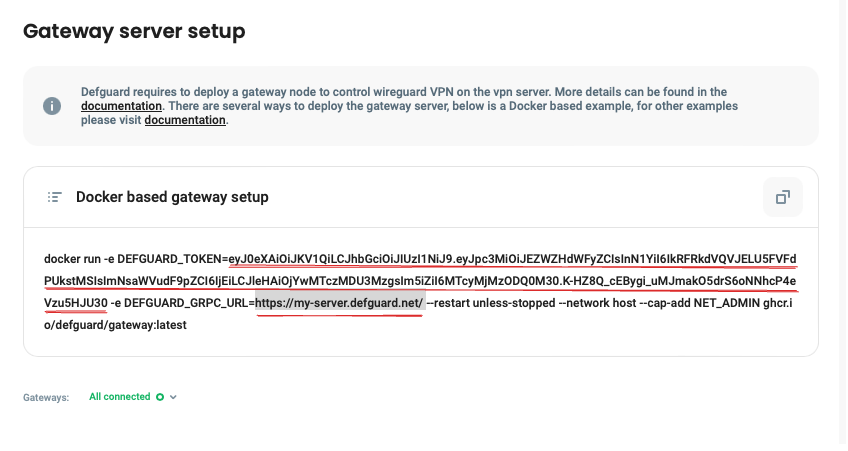
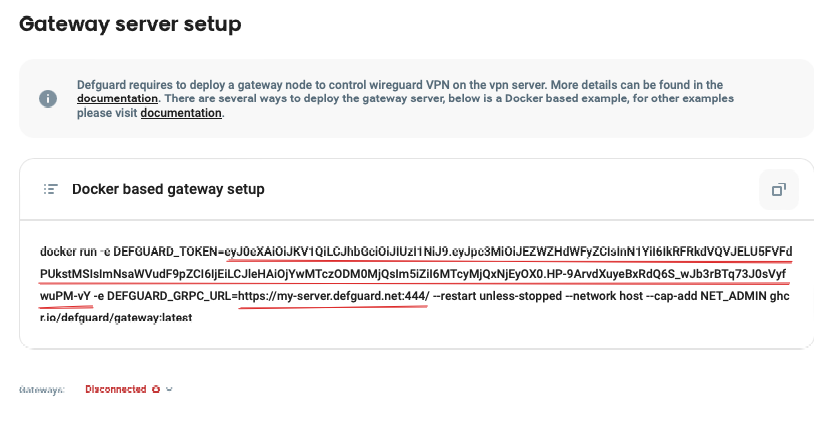
update configurations, grpc ports

diff --git a/tutorials/standalone-package-based-installation.md b/tutorials/standalone-package-based-installation.md
@@ -46,7 +46,7 @@ First of all, install postgresql
 Now you can launch a default user and create a new superuser for your database. We create user, password and database with name `defguard`, beacuse this is by default in `/etc/defguard/core.conf`, you can change whatever you want.
 ```
 # su -c /usr/bin/psql postgres
-postgres=# CREATE USER defgaurd WITH SUPERUSER PASSWORD defguad;
+postgres=# CREATE USER defgaurd WITH SUPERUSER PASSWORD 'defguad';
 postgres=# CREATE DATABASE defguard;
 ```
 
@@ -64,8 +64,7 @@ To expose our services in the server we need to configure a reverse proxy server
 
 To get started, we need to install:
 ```
-# apt install nginx
-# apt install certbot # service that generate for us certificates
+# apt install nginx certbot
 ```
 
 Enable nginx service
@@ -74,12 +73,9 @@ Enable nginx service
 # systemctl start nginx.service
 ```
 
-### Additional dependencies
-
-If there are any missing dependencies during installation, we recommend to fix them using the following command:
-
+Disable all default domains:
 ```
-# apt-get install -f
+# unlink /etc/ngins/sites-enabled/default
 ```
 
 ## Installation 
@@ -190,18 +186,18 @@ DEFGUARD_AUTH_SESSION_LIFETIME=604800
 DEFGUARD_ADMIN_GROUPNAME=admin
 DEFGUARD_DEFAULT_ADMIN_PASSWORD=pass123
 
-DEFGUARD_GRPC_ULR=https://my-server.defguard.net # add this line to your config file
+DEFGUARD_GRPC_URL=https://my-server.defguard.net:444
 
 ### Proxy configuration ###
 # Optional. URL of proxy gRPC server
 # DEFGUARD_PROXY_URL=http://localhost:50051
 
 ### LDAP configuration ###
-DEFGUARD_LDAP_URL=ldap://localhost:389
-DEFGUARD_LDAP_SERVICE_PASSWORD=adminpassword
-DEFGUARD_LDAP_USER_SEARCH_BASE="ou=users,dc=example,dc=org"
-DEFGUARD_LDAP_GROUP_SEARCH_BASE="ou=groups,dc=example,dc=org"
-DEFGUARD_LDAP_DEVICE_SEARCH_BASE="ou=devices,dc=example,dc=org"
+# DEFGUARD_LDAP_URL=ldap://localhost:389
+# DEFGUARD_LDAP_SERVICE_PASSWORD=adminpassword
+# DEFGUARD_LDAP_USER_SEARCH_BASE="ou=users,dc=example,dc=org"
+# DEFGUARD_LDAP_GROUP_SEARCH_BASE="ou=groups,dc=example,dc=org"
+# DEFGUARD_LDAP_DEVICE_SEARCH_BASE="ou=devices,dc=example,dc=org"
 
 ### DB configuration ###
 DEFGUARD_DB_HOST="localhost"
@@ -213,7 +209,9 @@ DEFGUARD_DB_PASSWORD="defguard"
 DATABASE_URL="postgresql://defguard:defguard@localhost/defguard"
 ```
 
-**If you have configured your postgres with different names than in [PostgreSQL guide](#postgresql), you can change it in DB configuration part**.
+**If you have configured your postgres with different names than in [PostgreSQL guide](#postgresql), you can change it in DB configuration part. LDAP configuration is not part of this tutorial, you can also commented those lines.**
+
+**We will back to this configuration to connect defguard core with proxy in the [Run proxy](#run-proxy) section. For now `DEFGUARD_PROXY_URL` is commented.**
 
 After changes, you can simply enable and start your defguard core service:
 ```
@@ -234,10 +232,7 @@ Jul 29 13:57:19 defguard-testing defguard[2776504]: 2024-07-29T11:57:19.747717Z 
 Jul 29 13:57:19 defguard-testing defguard[2776504]: 2024-07-29T11:57:19.780563Z  INFO defguard: Started web services
 ```
 
-Now, we are able to create our first nginx config for defguard core service with <i>my-server.defguard.net</i>. First of all, disable all default domains:
-```
-# unlink /etc/ngins/sites-enabled-default
-```
+Now, we are able to create our first nginx config for defguard core service with <i>my-server.defguard.net</i>.
 
 Create config file `/etc/nginx/site-available/my-server.defguard.conf`, example config file for <i>my-server.defguard.ent</i> should look like this
 ```
@@ -289,7 +284,7 @@ ln -s /etc/nginx/sites-available/my-server.defguard.conf /etc/nginx/sites-enable
 
 Restart nginx.service and we can start generate certificates for ssl purpose
 ```
-# systemctl restart nginx.service
+# systemctl reload nginx.service
 # certbot certonly --non-interactive --agree-tos --standalone --email admin@teonite.com -d my-server.defguard.net
 ```
 
@@ -345,7 +340,12 @@ server {
 }
 ```
 
-Test your domain on another terminal tab:
+Reload changes in `/etc/nginx/sites-available/my-server.defguard.conf`
+```
+# systemctl reload nginx.service
+```
+
+Test your domain on another terminal tab
 ```
 $ curl https://my-server.defguard.net/api/v1/health
 alive
@@ -385,10 +385,10 @@ Template for configure gateway service looks like below:
 
 # Required: secret token generated by defguard
 # NOTE: must replace default with actual value
-token = "<your_gateway_token>"
+token = "eyJ0eXAiOiJKV1QiLCJhbGciOiJIUzI1NiJ9.eyJpc3MiOiJEZWZHdWFyZCIsInN1YiI6IkRFRkdVQVJELU5FVFdPUkstMSIsImNsaWVudF9pZCI6IjEiLCJleHAiOjYwMTczODM0MjQsIm5iZiI6MTcyMjQxNjEyOX0.HP-9ArvdXuyeBxRdQ6S_wJb3rBTq73J0sVyfwuPM-vY"
 # Required: defguard server gRPC endpoint URL
 # NOTE: must replace default with actual value
-grpc_url = "<defguard_grpc_url>"
+grpc_url = "https://my-server.defguard.net:444/"
 # Optional: gateway name which will be displayed in defguard web UI
 name = "Gateway A"
 # Required: use userspace WireGuard implementation (e.g. wireguard-go)
@@ -439,7 +439,7 @@ Now we can run gateway service with configuration above:
 # systemctl enable defguard-gateway.service
 # systemctl start defgaurd-gateway.service
 # journalctl -u defguard-gateway.service
-[2024-07-27T16:37:56Z INFO  defguard_gateway::gateway] Starting defguard gateway version 0.7.0 with configuration: Config { token: "***", name: Some("Gateway on server X"), grpc_url: "http://localhost:50055/", userspace: false, grpc_ca: None, stats_period: 60, ifname: "wg0", pidfile: None, use_syslog: false, syslog_facility: "LOG_USER", syslog_socket: "/var/run/log", config_path: None, pre_up: None, post_up: None, pre_down: None, post_down: None, health_port: Some(55003) }
+[2024-07-27T16:37:56Z INFO  defguard_gateway::gateway] Starting defguard gateway version 0.7.0 with configuration: Config { token: "***", name: Some("Gateway on server X"), grpc_url: "https://my-server.defguard.net:444/", userspace: false, grpc_ca: None, stats_period: 60, ifname: "wg0", pidfile: None, use_syslog: false, syslog_facility: "LOG_USER", syslog_socket: "/var/run/log", config_path: None, pre_up: None, post_up: None, pre_down: None, post_down: None, health_port: None }
 [2024-07-27T16:37:56Z INFO  defguard_gateway::gateway] gRPC server connection setup done.
 [2024-07-27T16:37:56Z INFO  defguard_wireguard_rs::wgapi_linux] Creating interface wg0
 [2024-07-27T16:37:56Z INFO  defguard_wireguard_rs::wgapi_linux] Configuring interface wg0 with config: InterfaceConfiguration { name: "Szczecin", address: "10.22.33.1/24", port: 50051, peers: [], mtu: None, .. }
@@ -447,16 +447,16 @@ Now we can run gateway service with configuration above:
 [2024-07-27T16:37:56Z WARN  netlink_packet_route::link::buffer_tool] Specified IFLA_INET6_STATS NLA attribute holds more(most likely new kernel) data which is unknown to netlink-packet-route crate, expecting 288, got 296
 [2024-07-27T16:37:56Z INFO  defguard_gateway::gateway] Reconfigured WireGuard interface Szczecin (address: 10.0.0.1/24)
 [2024-07-27T16:37:56Z INFO  defguard_gateway::gateway] Stats thread spawned.
-[2024-07-27T16:37:56Z INFO  defguard_gateway::gateway] Connected to defguard gRPC endpoint: http://localhost:50055/
+[2024-07-27T16:37:56Z INFO  defguard_gateway::gateway] Connected to defguard gRPC endpoint: https://my-server.defguard.net:444/
 ```
 
 On the other side, core service should print those informations:
 ```
-2024-07-27T16:37:56.379227Z  INFO defguard::grpc: Adding gateway user with to gateway map for network 3
-2024-07-27T16:37:56.385951Z  INFO defguard::grpc::gateway: Configuration sent to gateway client, network [ID 3] Szczecin.
-2024-07-27T16:37:56.388651Z  INFO defguard::grpc::gateway: New client connected to updates stream: user, network [ID 3] Szczecin
-2024-07-27T16:37:56.388695Z  INFO defguard::grpc: Gateway user connected in network 3
-2024-07-27T16:37:56.388810Z  INFO defguard::grpc::gateway: Starting update stream to gateway: user, network [ID 3] Szczecin
+2024-07-27T16:37:56.379227Z  INFO defguard::grpc: Adding gateway user with to gateway map for network 1
+2024-07-27T16:37:56.385951Z  INFO defguard::grpc::gateway: Configuration sent to gateway client, network [ID 1] Szczecin.
+2024-07-27T16:37:56.388651Z  INFO defguard::grpc::gateway: New client connected to updates stream: user, network [ID 1] Szczecin
+2024-07-27T16:37:56.388695Z  INFO defguard::grpc: Gateway user connected in network 1
+2024-07-27T16:37:56.388810Z  INFO defguard::grpc::gateway: Starting update stream to gateway: user, network [ID 1] Szczecin
 ```
 
 ### Run proxy
@@ -533,7 +533,7 @@ server {
 Link configuration, generate certicates and add ssl certificates just like in [Run core section](#run-core).
 
 ```
-ln -s /etc/nginx/sites-available/enroll.defguard.conf /etc/nginx/sites-enabled/enroll.defguard.conf
+# ln -s /etc/nginx/sites-available/enroll.defguard.conf /etc/nginx/sites-enabled/enroll.defguard.conf
 # systemctl restart nginx.service
 # certbot certonly --non-interactive --agree-tos --standalone --email admin@teonite.com -d enroll.defguard.net
 ```
@@ -573,7 +573,6 @@ server {
 	access_log /var/log/nginx/enroll.log;
 	error_log /var/log/nginx/enroll.e.log;
 
-	ssl on;
 	ssl_certificate /etc/letsencrypt/live/enroll.defguard.net/fullchain.pem;
 	ssl_certificate_key /etc/letsencrypt/live/enroll.defguard.net/privkey.pem;
 
@@ -601,10 +600,15 @@ server {
 }
 ```
 
-Now, we can update our **core configuration** in `/etc/defguard/core.conf`. 
+Reload changes in `/etc/nginx/sites-available/enroll.defguard.conf`
+```
+# systemctl restart nginx.service
+```
+
+Now, we can update our **core configuration** in `/etc/defguard/core.conf` by uncommenting `DEFGUARD_PROXY_URL`
 ```
 # Proxy connection configuration
-DEFGUARD_PROXY_URL=https://enroll.defguard.net
+DEFGUARD_PROXY_URL=https://enroll.defguard.net:444
 ```
 
 Full `/etc/defguard/core.conf`:
@@ -622,11 +626,11 @@ DEFGUARD_AUTH_SESSION_LIFETIME=604800
 DEFGUARD_ADMIN_GROUPNAME=admin
 DEFGUARD_DEFAULT_ADMIN_PASSWORD=pass123
 
-DEFGUARD_GRPC_ULR=https://my-server.defguard.net # add this line to your config file
+DEFGUARD_GRPC_ULR=https://my-server.defguard.net:444 # add this line to your config file
 
 ### Proxy configuration ###
 # Optional. URL of proxy gRPC server
-DEFGUARD_PROXY_URL=https://enroll.defguard.net
+DEFGUARD_PROXY_URL=https://enroll.defguard.net:444
 
 ### LDAP configuration ###
 DEFGUARD_LDAP_URL=ldap://localhost:389
@@ -643,6 +647,11 @@ DEFGUARD_DB_USER="defguard"
 DEFGUARD_DB_PASSWORD="defguard"
 # for SQLX CLI
 DATABASE_URL="postgresql://defguard:defguard@localhost/defguard"
+```
+
+Reload changes in `/etc/defguarc/core.conf`
+```
+# systemctl restart defguard.service
 ```
 
 After doing this, you have full working defguard services with admin panel and enrollment wizard page!
